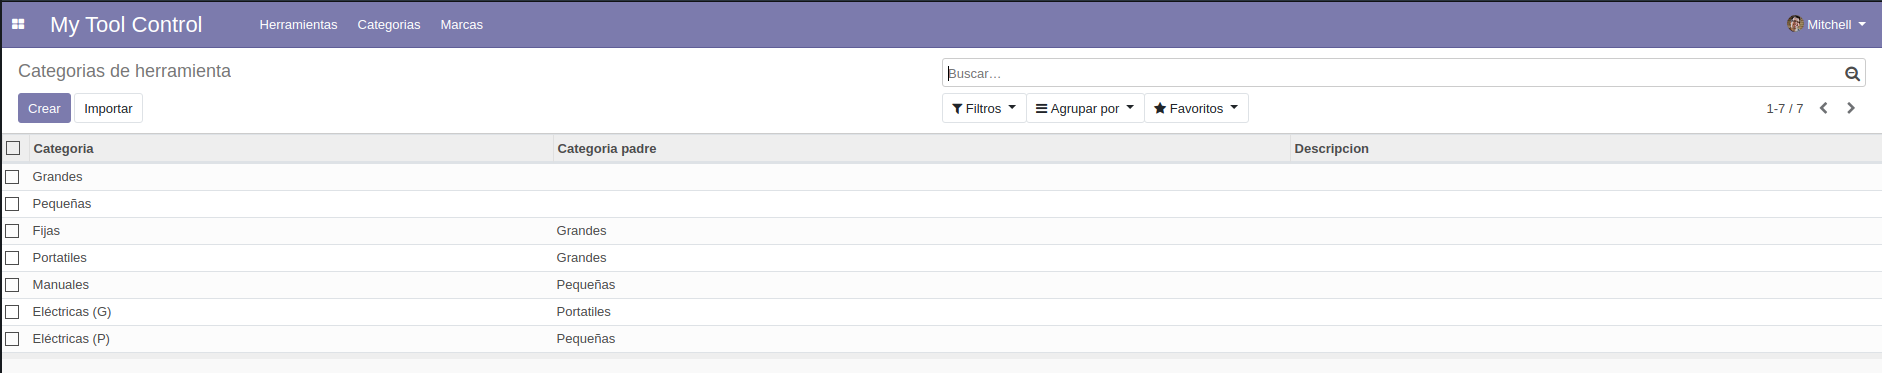
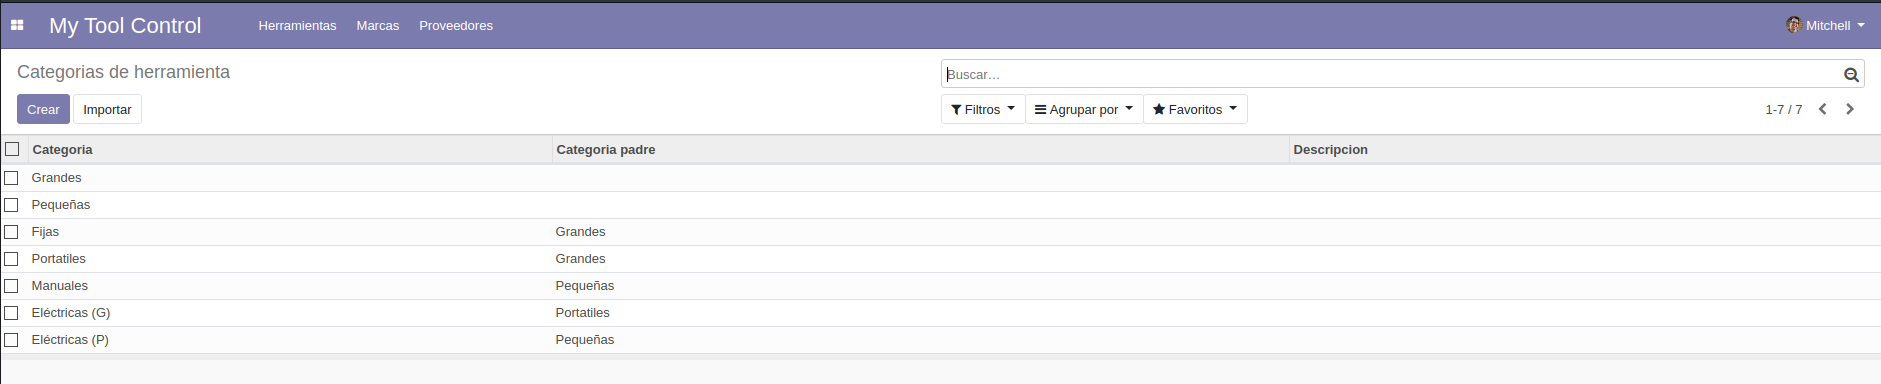
cambios no readme

diff --git a/README.md b/README.md
@@ -14,6 +14,7 @@ git clone https://github.com/IPardelo/sxe.git
  *****
 
 ## Indice:
+ * Menu
  * Ferramentas
  * Categorias
  * Marcas
@@ -24,26 +25,34 @@ git clone https://github.com/IPardelo/sxe.git
 
 *****
 
+## **Menu**
+
+![FerrMenuamentas](recursos/img/menu.gif)
+
+
+*****
+
 ## **Ferramentas**
 
-*Vista de ferramentas creadas*
+*Vista de ferramentas de proba*
 ![Ferramentas](recursos/img/herramientas.png)
 
-Nesta vista podemos crear e visualizar as ferramentas que temos rexistradas. Podemos ver a que categoría pertence cada unha, o estado no que está (**Dispoñible, Usándose, Perdida ou Rota**) e o último usuario e horario ao que fui usado.
+Nesta vista podemos crear e visualizar as ferramentas que temos rexistradas.  
+
+Podemos ver a que categoría pertence cada unha, o estado no que está (**Dispoñible, Usándose, Perdida ou Rota**) e o último usuario e horario ao que fui usado.
 
 *Vista dunha ferramenta*
-![Ferramentas](recursos/img/vistaFerramenta.png)
+![Ferramentas](recursos/img/vistaherramienta.gif)
 
-Unha vez dentro da ferramenta podemos ver a marca da mesma ou editar o estado. O estado ten restriccións lóxicas, como por exemplo unha ferramenta en estado "**roto**" non pode volver a estar "**Disponible**".
+Unha vez dentro da ferramenta podemos ver a marca da mesma ou editar o estado cos botóns da cabeceira. O estado ten restriccións lóxicas, como por exemplo unha ferramenta en estado "**roto**" non pode volver a estar "**Disponible**".
 
-Aqui podemos ver como ao cambiar o estado, cambia o "**Último uso**" e o "**Último usuario**".
-![Ferramentas](recursos/img/usoferramenta.gif)
+Podemos ver como ao cambiar o estado, cambia o "**Último uso**" e o "**Último usuario**".
 
 *****
 
 ## **Categorias**
 
-*Vista de categorias creadas*
+*Vista de categorias de proba*
 ![Categorias](recursos/img/categorias.png)
 
 Nesta vista podemos crear e visualizar as categorias que temos rexistradas. 
@@ -56,10 +65,12 @@ Podemos ver o nome, a descripción e a categoría pai a que pertence cada unha (
 
 ## **Marcas**
 
-*Vista de marcas creadas*
+*Vista de marcas de proba*
 ![Marcas](recursos/img/marcas.png)
 
-Nesta vista podemos crear e visualizar as marcas que temos rexistradas.  As marcas son o apartado máis sinxelo, xa que só teñen como propiedade o nome e a descripción.
+Nesta vista podemos crear e visualizar as marcas que temos rexistradas. Na vista principal ó abrir o menu de **marcas** vemos unha vista "*kanban*" das mesmas que nos mostra o proveedor, o nome e unha foto para identificala máis rápido.
+
+Para editar ou ver unha entrada só debemos facer "*click*" na mesma.
 
 *Vista dunha marca*
 ![Marcas](recursos/img/vistamarcas.png)
@@ -71,7 +82,9 @@ Nesta vista podemos crear e visualizar as marcas que temos rexistradas.  As marc
 *Lista de proveedores de proba*
 ![Proveedores](recursos/img/proveedores.png)
 
-Nesta vista podemos crear e visualizar os proveedores que temos rexistradas.  Podemos ver o nome, o telefono e o email.
+Nesta vista "*kanban*" podemos crear e visualizar os proveedores que temos rexistrados.  Podemos ver todos os seus datos excepto a descripcion.  
+
+Para ver a descripcion debemos facer click no nome do proveedor e abrirasenos unha vista de "*formulario*" como a seguinte:
 
 *Vista dun proveedor*
 ![Proveedores](recursos/img/vistaproveedores.png)
